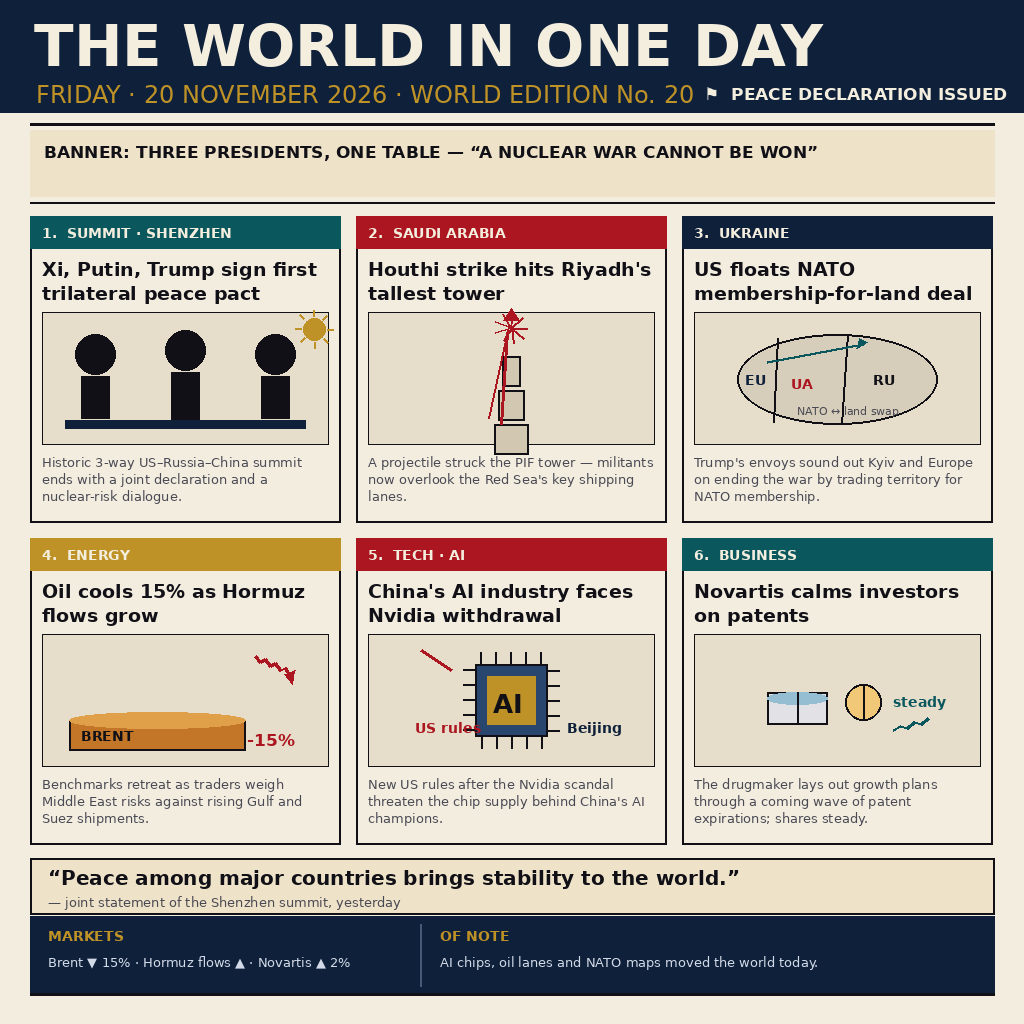
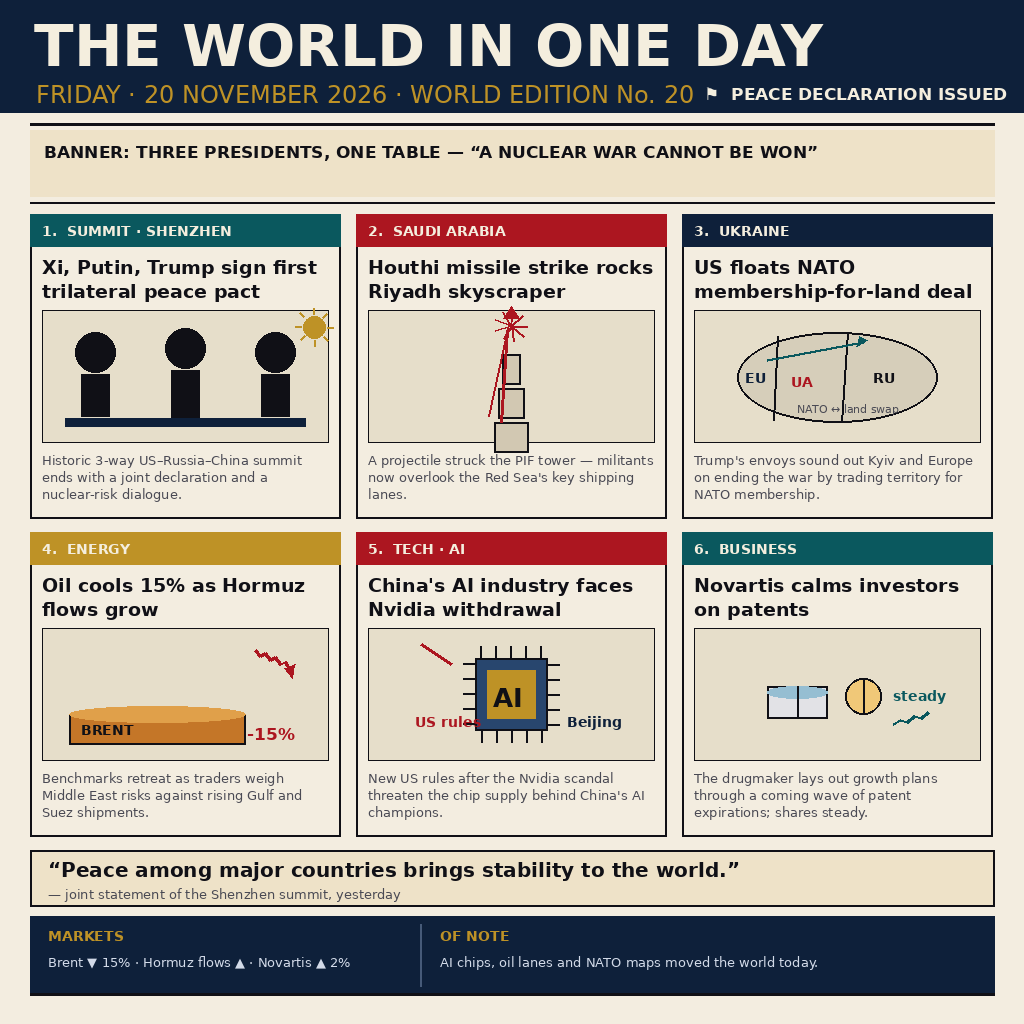
Render pass: sharper headline, tighter spacing

diff --git a/render_news.py b/render_news.py
@@ -1,0 +1,172 @@
+#!/usr/bin/env python3
+"""Render 1024x1024 world-news front page for 20 Nov 2026 (6 stories, illustrated)."""
+from PIL import Image, ImageDraw, ImageFont
+import math
+W = H = 1024
+PAPER = (243, 237, 224); INK = (16, 16, 22); NAVY = (14, 32, 58); RED = (172, 22, 32)
+GOLD = (190, 146, 38); TEAL = (10, 88, 94); GREY = (74, 74, 84); LIGHT = (208, 198, 176)
+BOLD = "/usr/share/fonts/truetype/dejavu/DejaVuSans-Bold.ttf"
+REG = "/usr/share/fonts/truetype/dejavu/DejaVuSans.ttf"
+f_mast = ImageFont.truetype(BOLD, 58); f_date = ImageFont.truetype(REG, 24)
+f_head = ImageFont.truetype(BOLD, 19); f_body = ImageFont.truetype(REG, 13)
+f_kick = ImageFont.truetype(BOLD, 14); f_tag = ImageFont.truetype(BOLD, 17)
+
+img = Image.new("RGB", (W, H), PAPER)
+d = ImageDraw.Draw(img)
+
+# ---------- masthead ----------
+d.rectangle([0, 0, W, 112], fill=NAVY)
+d.text((34, 12), "THE WORLD IN ONE DAY", font=f_mast, fill=(244, 238, 222))
+d.text((36, 80), "FRIDAY \u00b7 20 NOVEMBER 2026 \u00b7 WORLD EDITION No. 20", font=f_date, fill=GOLD)
+d.text((W-320, 84), "\u2691  PEACE DECLARATION ISSUED", font=f_tag, fill=(244, 238, 222))
+d.line([30, 124, W-30, 124], fill=INK, width=3)
+
+# banner headline strip
+d.rectangle([30, 130, W-30, 196], fill=(238, 226, 200))
+d.text((44, 142), "BANNER: THREE PRESIDENTS, ONE TABLE \u2014 \u201cA NUCLEAR WAR CANNOT BE WON\u201d", font=f_tag, fill=INK)
+d.line([30, 202, W-30, 202], fill=INK, width=2)
+
+# ---------- panel geometry (3 x 2 grid) ----------
+col_w = (W - 60 - 32) // 3
+cols = [(30, 30 + col_w), (30 + col_w + 16, 30 + 2 * col_w + 16), (30 + 2 * col_w + 32, 30 + 3 * col_w + 32)]
+bh = 304
+rows_y = [214, 214 + bh + 14]
+assert rows_y[1] + bh < H - 118, (rows_y[1] + bh, H - 118)
+
+def wrap(text, font, width):
+    words = text.split(" "); lines = []; cur = ""
+    for w_ in words:
+        t = (cur + " " + w_).strip()
+        if d.textlength(t, font=font) > width: lines.append(cur); cur = w_
+        else: cur = t
+    lines.append(cur)
+    return lines
+
+def panel(i, kick, head, body, accent, draw_icon):
+    x, xe = cols[i % 3]
+    y = rows_y[i // 3]
+    d.rectangle([x, y, xe, y + bh], outline=INK, width=2, fill=PAPER)
+    d.rectangle([x, y, xe, y + 32], fill=accent)
+    d.text((x + 12, y + 9), f"{i+1}.  {kick}", font=f_kick, fill=(244, 238, 222))
+    ty = y + 42
+    for ln in wrap(head, f_head, xe - x - 24)[:2]:
+        d.text((x + 12, ty), ln, font=f_head, fill=INK); ty += 24
+    # illustration box
+    ib_x, ib_y, ib_h = x + 12, ty + 6, 132
+    d.rectangle([ib_x, ib_y, xe - 12, ib_y + ib_h], fill=(230, 222, 202), outline=INK, width=1)
+    draw_icon((ib_x + xe - 12) / 2, ib_y + ib_h / 2)
+    ty = ib_y + ib_h + 10
+    for ln in wrap(body, f_body, xe - x - 24)[:3]:
+        d.text((x + 12, ty), ln, font=f_body, fill=GREY); ty += 17
+    return x, y
+
+# icon 1: three leader silhouettes + table + sun
+def icon_leaders(cx, cy):
+    d.ellipse([cx-110, cy-44, cx-70, cy-4], fill=INK)      # head 1
+    d.rectangle([cx-104, cy-2, cx-76, cy+40], fill=INK)
+    d.ellipse([cx-20, cy-48, cx+20, cy-8], fill=INK)       # head 2 (center, taller)
+    d.rectangle([cx-14, cy-6, cx+14, cy+42], fill=INK)
+    d.ellipse([cx+70, cy-44, cx+110, cy-4], fill=INK)      # head 3
+    d.rectangle([cx+76, cy-2, cx+104, cy+40], fill=INK)
+    d.rectangle([cx-120, cy+42, cx+120, cy+50], fill=NAVY) # table
+    # sun rays
+    d.ellipse([cx+118, cy-60, cx+140, cy-38], fill=GOLD)
+    for a in range(0, 360, 45):
+        r1, r2 = 13, 19
+        d.line([cx+129+ r1*math.cos(math.radians(a)), cy-49 + r1*math.sin(math.radians(a)),
+                cx+129 + r2*math.cos(math.radians(a)), cy-49 + r2*math.sin(math.radians(a))], fill=GOLD, width=2)
+
+# icon 2: tower with impact burst
+def icon_tower(cx, cy):
+    for k, wdt in enumerate([34, 26, 18]):
+        top = cy + 46 - k*34
+        d.rectangle([cx-wdt//2, top, cx+wdt//2, top+30], outline=INK, width=2, fill=(210, 200, 178))
+    d.line([cx-10, cy+46, cx-4, cy-46], fill=RED, width=3)   # incoming trajectory
+    d.line([cx-22, cy+40, cx-2, cy-52], fill=RED, width=2)
+    for a in range(0, 360, 40):
+        d.line([cx, cy-50, cx + 16*math.cos(math.radians(a)), cy-50 + 16*math.sin(math.radians(a))], fill=RED, width=2)
+    d.polygon([(cx-8, cy-58), (cx+8, cy-58), (cx, cy-70)], fill=RED)
+
+# icon 3: NATO map (east-west) with arrows and flag
+def icon_map(cx, cy):
+    d.ellipse([cx-100, cy-44, cx+100, cy+46], outline=INK, width=2, fill=(214, 206, 186))
+    d.line([cx-60, cy-40, cx-64, cy+44], fill=INK, width=2)
+    d.line([cx+10, cy-44, cx+4, cy+46], fill=INK, width=2)
+    d.text((cx-92, cy-6), "EU", font=f_kick, fill=NAVY)
+    d.text((cx-46, cy-2), "UA", font=f_kick, fill=RED)
+    d.text((cx+36, cy-6), "RU", font=f_kick, fill=INK)
+    d.line([cx-70, cy-16, cx+26, cy-34], fill=TEAL, width=3)
+    d.polygon([(cx+30, cy-36), (cx+20, cy-30), (cx+22, cy-40)], fill=TEAL)
+    d.text((cx-40, cy+26), "NATO \u2194 land swap", font=ImageFont.truetype(REG, 11), fill=GREY)
+
+# icon 4: barrel + falling chart
+def icon_oil(cx, cy):
+    d.rectangle([cx-116, cy+20, cx+60, cy+50], outline=INK, width=2, fill=(196, 118, 40))
+    d.ellipse([cx-116, cy+12, cx+60, cy+28], fill=(224, 160, 74))
+    d.text((cx-104, cy+28), "BRENT", font=f_kick, fill=INK)
+    pts = [(cx+70 + k*5, cy-44 + v) for k, v in enumerate([0, 6, 3, 10, 7, 14, 12, 20])]
+    d.line(pts, fill=RED, width=3)
+    d.polygon([(pts[-1][0]+4, pts[-1][1]-6), (pts[-1][0]-6, pts[-1][1]-2), (pts[-1][0]+2, pts[-1][1]+8)], fill=RED)
+    d.text((cx+62, cy+30), "-15%", font=f_tag, fill=RED)
+
+# icon 5: chip with flag halves
+def icon_chip(cx, cy):
+    d.rectangle([cx-36, cy-36, cx+36, cy+36], outline=INK, width=2, fill=(40, 70, 110))
+    d.rectangle([cx-24, cy-24, cx+24, cy+24], fill=GOLD)
+    d.text((cx-18, cy-12), "AI", font=ImageFont.truetype(BOLD, 26), fill=INK)
+    for k in range(-30, 31, 15):
+        d.line([cx+k, cy-36, cx+k, cy-48], fill=INK, width=2)
+        d.line([cx+k, cy+36, cx+k, cy+48], fill=INK, width=2)
+        d.line([cx-36, cy+k, cx-48, cy+k], fill=INK, width=2)
+        d.line([cx+36, cy+k, cx+48, cy+k], fill=INK, width=2)
+    d.line([cx-90, cy-50, cx-60, cy-30], fill=RED, width=3)
+    d.text((cx-96, cy+20), "US rules", font=f_kick, fill=RED)
+    d.text((cx+56, cy+20), "Beijing", font=f_kick, fill=NAVY)
+
+# icon 6: pills + chart up
+def icon_pills(cx, cy):
+    d.rectangle([cx-70, cy-8, cx-10, cy+24], outline=INK, width=2, fill=(226, 226, 230))
+    d.ellipse([cx-70, cy-8, cx-10, cy+4], fill=(150, 190, 210))
+    d.line([cx-40, cy-8, cx-40, cy+24], fill=INK, width=2)
+    d.ellipse([cx+8, cy-16, cx+44, cy+20], outline=INK, width=2, fill=(240, 200, 120))
+    d.line([cx+26, cy-16, cx+26, cy+20], fill=INK, width=2)
+    pts = [(cx+56 + k*7, cy+34 - v) for k, v in enumerate([4, 8, 6, 12, 10, 16])]
+    d.line(pts, fill=TEAL, width=3)
+    d.text((cx+56, cy-6), "steady", font=f_kick, fill=TEAL)
+
+stories = [
+    ("SUMMIT \u00b7 SHENZHEN", "Xi, Putin, Trump sign first trilateral peace pact",
+     "Historic 3-way US\u2013Russia\u2013China summit ends with a joint declaration and a nuclear-risk dialogue.", TEAL, icon_leaders),
+    ("SAUDI ARABIA", "Houthi missile strike rocks Riyadh skyscraper",
+     "A projectile struck the PIF tower \u2014 militants now overlook the Red Sea's key shipping lanes.", RED, icon_tower),
+    ("UKRAINE", "US floats NATO membership-for-land deal",
+     "Trump's envoys sound out Kyiv and Europe on ending the war by trading territory for NATO membership.", NAVY, icon_map),
+    ("ENERGY", "Oil cools 15% as Hormuz flows grow",
+     "Benchmarks retreat as traders weigh Middle East risks against rising Gulf and Suez shipments.", GOLD, icon_oil),
+    ("TECH \u00b7 AI", "China's AI industry faces Nvidia withdrawal",
+     "New US rules after the Nvidia scandal threaten the chip supply behind China's AI champions.", RED, icon_chip),
+    ("BUSINESS", "Novartis calms investors on patents",
+     "The drugmaker lays out growth plans through a coming wave of patent expirations; shares steady.", TEAL, icon_pills),
+]
+
+for i, s in enumerate(stories):
+    panel(i, *s)
+
+# ---------- pull-quote strip to fill the gap ----------
+qy = rows_y[1] + bh + 14
+d.rectangle([30, qy, W-30, qy + 56], fill=(238, 226, 200), outline=INK, width=2)
+d.text((48, qy + 8), "\u201cPeace among major countries brings stability to the world.\u201d", font=ImageFont.truetype(BOLD, 20), fill=INK)
+d.text((48, qy + 36), "\u2014 joint statement of the Shenzhen summit, yesterday", font=f_body, fill=GREY)
+
+# ---------- footer data strip ----------
+fy = H - 108
+d.rectangle([30, fy, W-30, fy + 78], fill=NAVY)
+d.text((48, fy + 12), "MARKETS", font=f_kick, fill=GOLD)
+d.text((48, fy + 38), "Brent \u25bc 15% \u00b7 Hormuz flows \u25b2 \u00b7 Novartis \u25b2 2%", font=f_body, fill=(210, 218, 232))
+d.line([420, fy + 8, 420, fy + 70], fill=(70, 90, 120), width=2)
+d.text((440, fy + 12), "OF NOTE", font=f_kick, fill=GOLD)
+d.text((440, fy + 38), "AI chips, oil lanes and NATO maps moved the world today.", font=f_body, fill=(210, 218, 232))
+d.line([W-30, fy + 78, 30, fy + 78], fill=INK, width=3)
+
+img.save("/root/makefun/news20/entry.png")
+print("bytes:", __import__("os").path.getsize("/root/makefun/news20/entry.png"))
